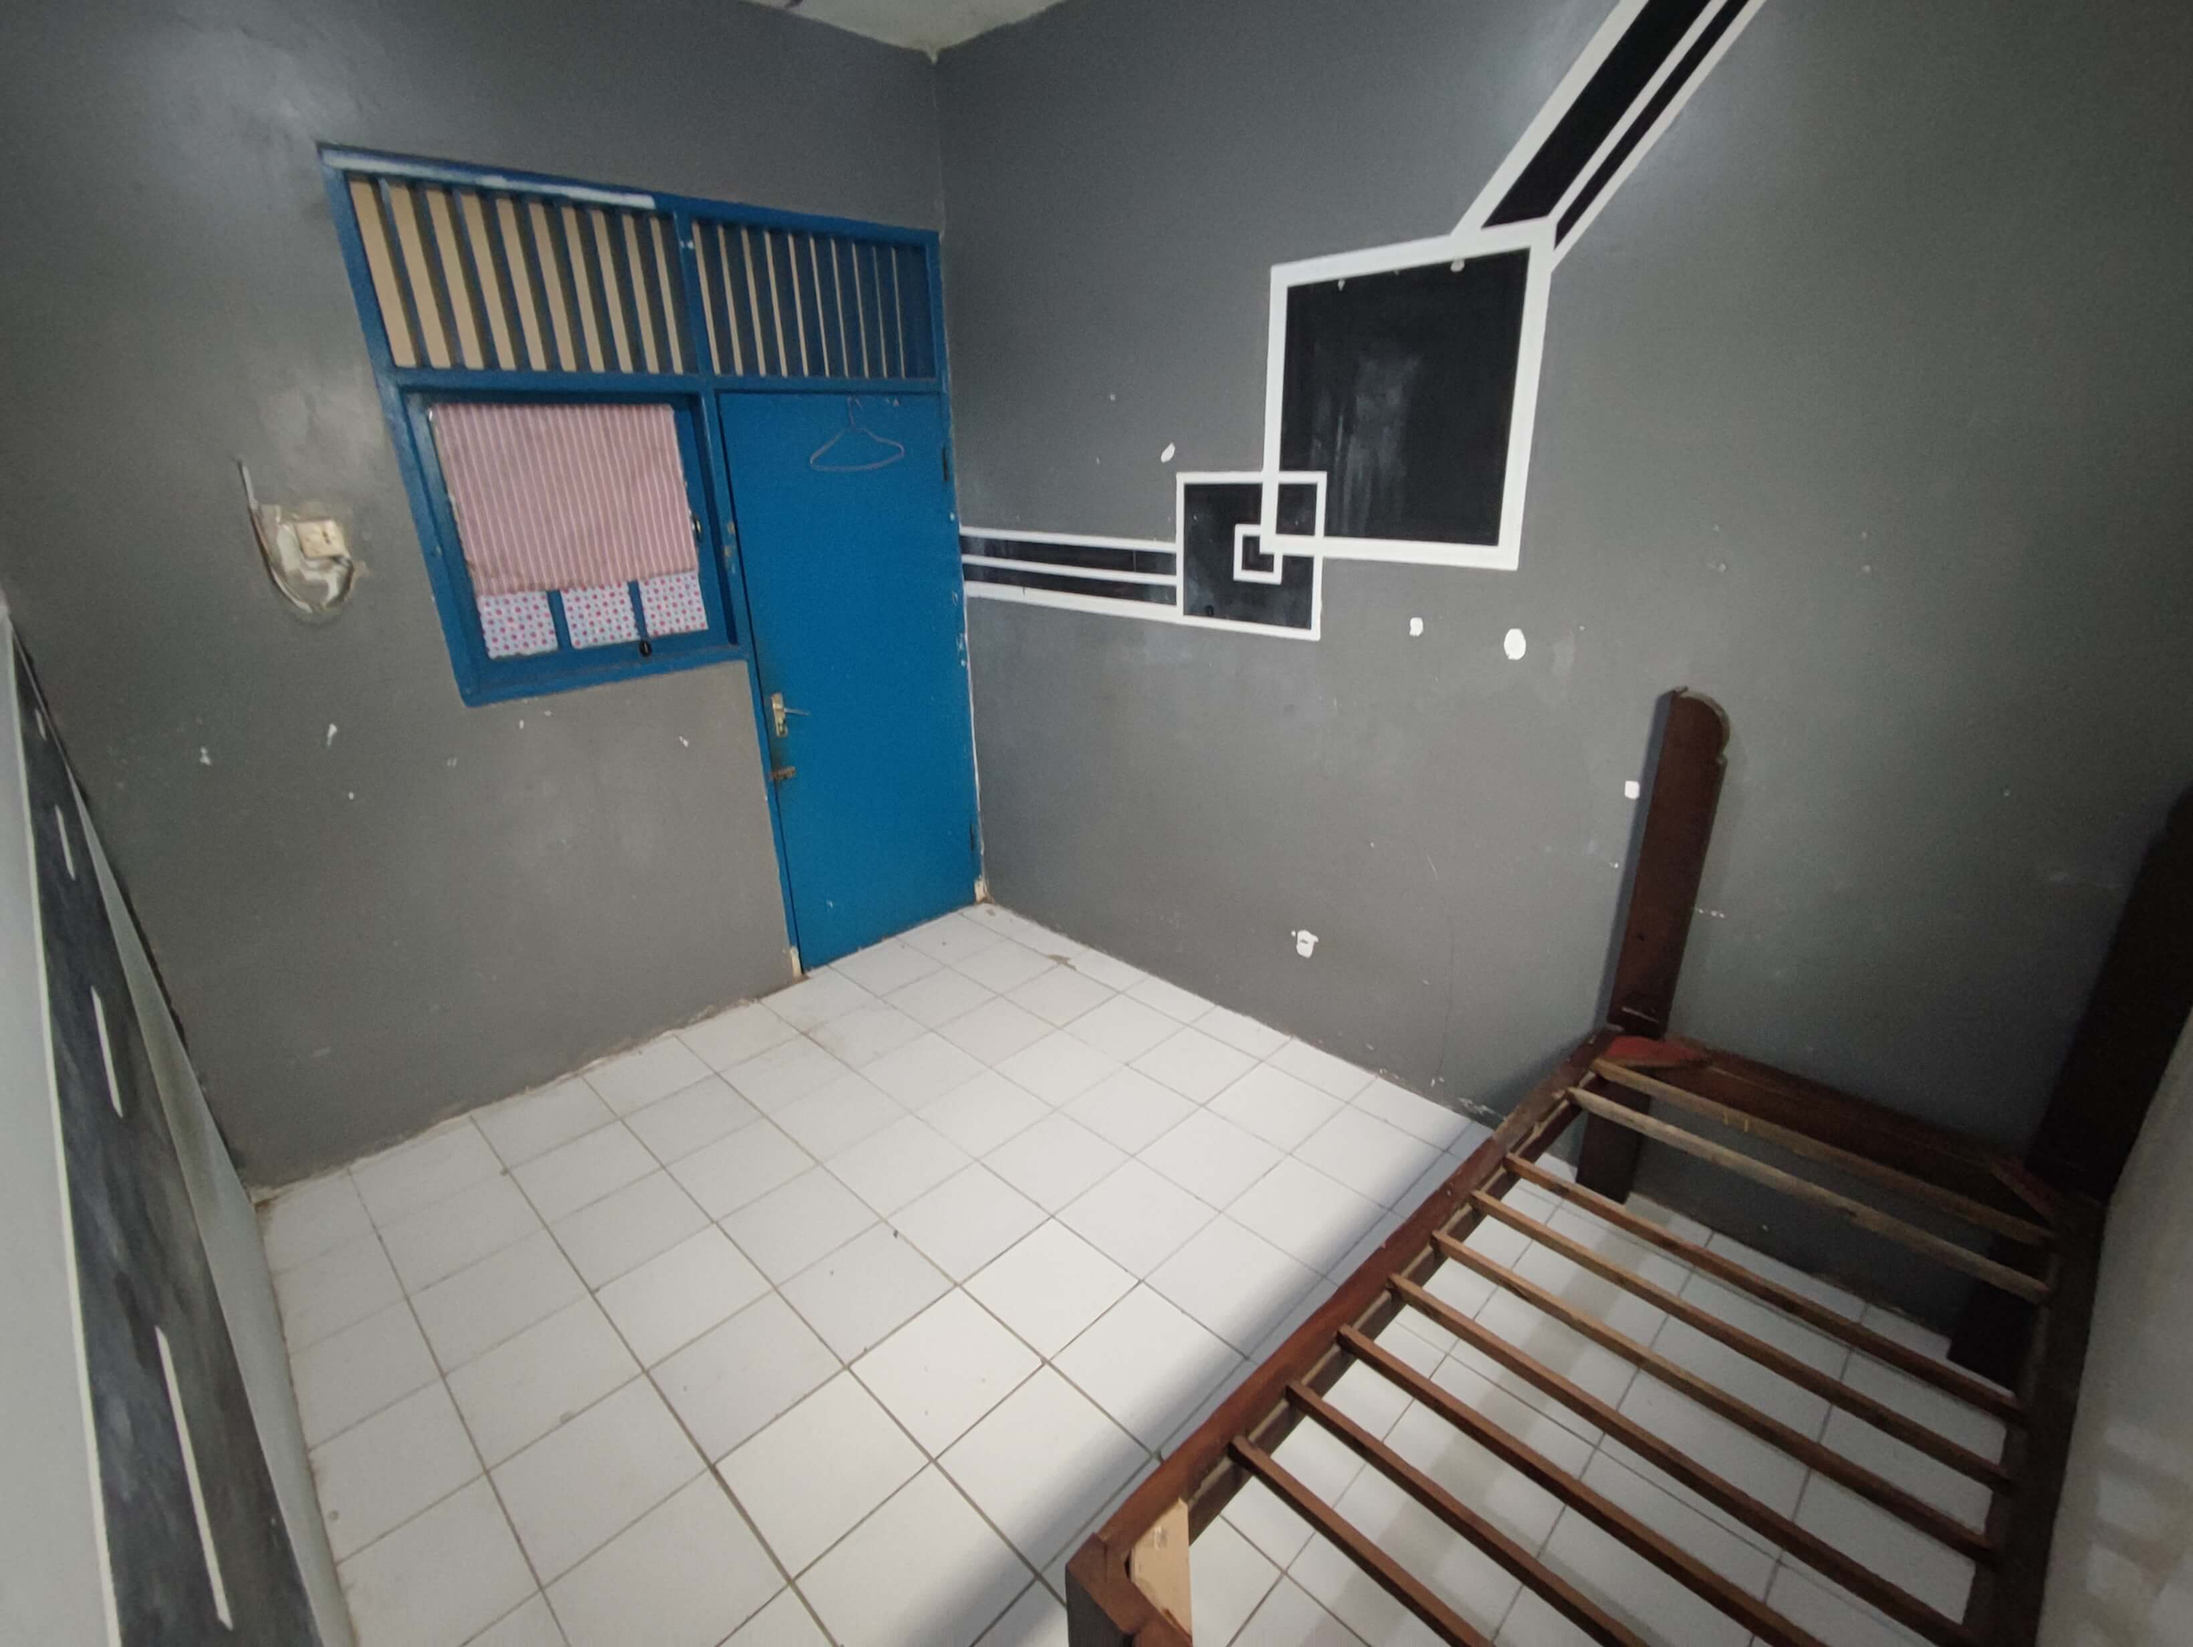
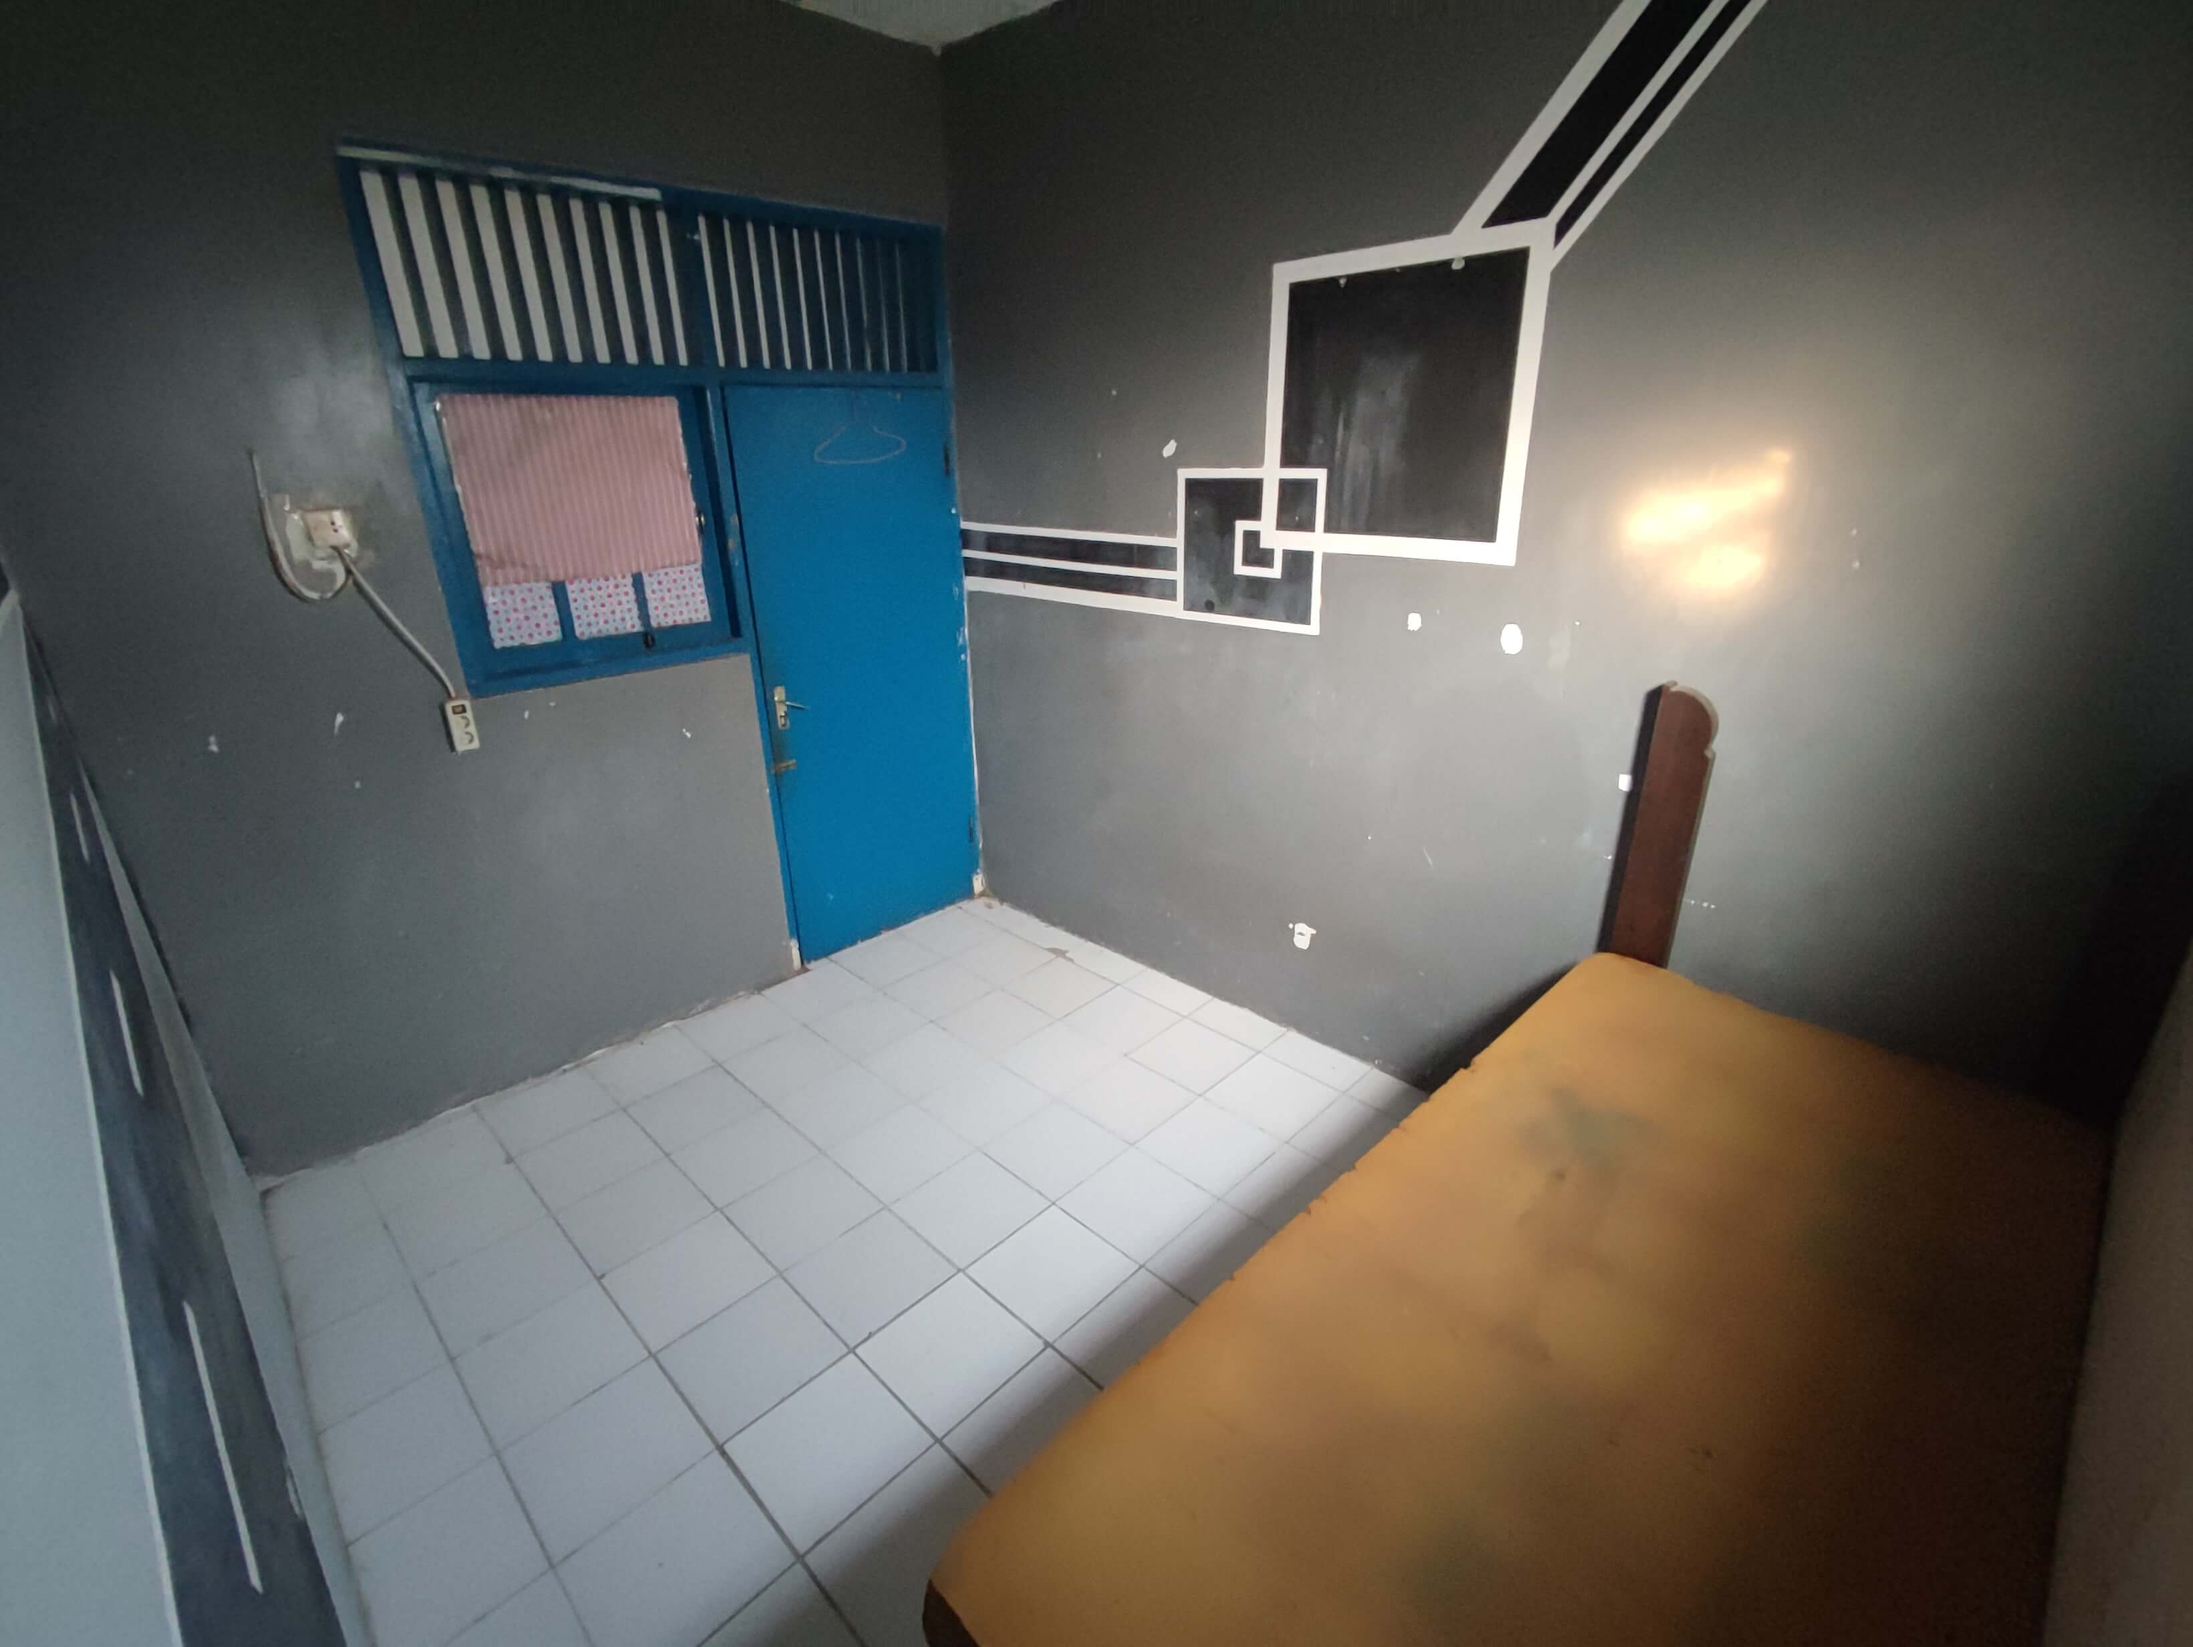
update images B4 B5 B6

diff --git a/B/5.html b/B/5.html
@@ -22,13 +22,14 @@
         Fasilitas :
         <ul>
             <li>Wireless Internet (WiFi)</li>
+            <li>Kasur</li>
             <li>Dipan Kayu</li>
             <li>Listrik Token 1300VA</li>
             <li>Kamar Mandi Luar</li>
         </ul>
         Ukuran Kamar : ± 2,7 x 3,3 meter
         <br><br>
-        Terakhir diperbarui : 27 November 2023
+        Terakhir diperbarui : 28 Mei 2023
     </p>
     <img src="./assets/5_entry.jpg" width="100%" height="auto" max-width="800px">
     <img src="./assets/5_back.jpg" width="100%" height="auto" max-width="800px">

diff --git a/B/4.html b/B/4.html
@@ -27,7 +27,7 @@
         </ul>
         Ukuran Kamar : ± 2,4 x 2,4 meter
         <br><br>
-        Terakhir diperbarui : 6 Maret 2024
+        Terakhir diperbarui : 28 Mei 2024
     </p>
     <img src="./assets/4_entry.jpg" width="100%" height="auto" max-width="800px">
     <img src="./assets/4_back.jpg" width="100%" height="auto" max-width="800px">

diff --git a/B/6.html b/B/6.html
@@ -28,7 +28,7 @@
         </ul>
         Ukuran Kamar : ± 2,7 x 4 meter
         <br><br>
-        Terakhir diperbarui : 3 Maret 2024
+        Terakhir diperbarui : 28 Mei 2024
     </p>
     <img src="./assets/6_entry.jpg" width="100%" height="auto" max-width="800px">
     <img src="./assets/6_entry2.jpg" width="100%" height="auto" max-width="800px">
